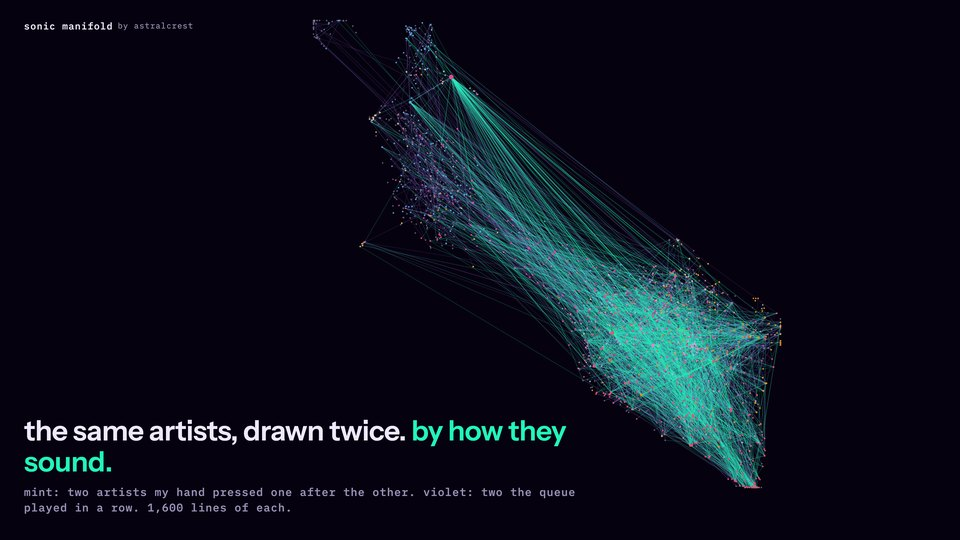
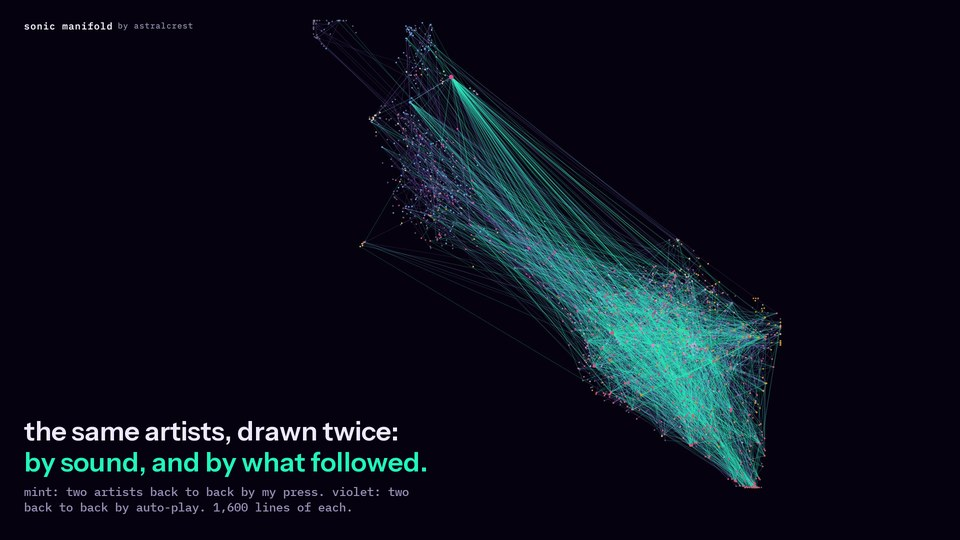
update

Changed region(s): [[0.0312, 0.7704, 0.5938, 0.9481]]

diff --git a/index.html b/index.html
@@ -43,7 +43,7 @@ if(!own[base])location.replace('lab.html'+h);
 <link rel="preload" as="fetch" crossorigin href="front/data/field.json?v=24ef332630">
 <link rel="preconnect" href="https://fonts.googleapis.com">
 <link rel="preconnect" href="https://fonts.gstatic.com" crossorigin>
-<link rel="preload" as="script" href="front/field.js?v=59caa97389">
+<link rel="preload" as="script" href="front/field.js?v=b207cf9dcc">
 <link rel="stylesheet" href="https://fonts.googleapis.com/css2?family=Instrument+Sans:wght@400;500;600&family=IBM+Plex+Mono:wght@400;500&display=swap" media="print" onload="this.media='all'"><noscript><link rel="stylesheet" href="https://fonts.googleapis.com/css2?family=Instrument+Sans:wght@400;500;600&family=IBM+Plex+Mono:wght@400;500&display=swap"></noscript>
 <style>
 :root{--bg:#06010f;--panel:#0d0719;--card:#120a22;--ink:#efe9ff;--dim:#9a90b8;--mute:#9a90b8;--line:#2a2140;--faint:rgba(239,233,255,.12);--hair:rgba(239,233,255,.3);--mint:#21f6bc;--amber:#f5a623;--violet:#8b6fd6;--rose:#ff5c7a;--ice:#bcd3ff;--gold:#ffd36b;--sans:"Instrument Sans",-apple-system,"Inter",system-ui,sans-serif;--mono:"IBM Plex Mono",ui-monospace,"SF Mono",Menlo,monospace;--col:clamp(380px,34vw,560px);--top:60svh}
@@ -83,7 +83,7 @@ html.sm-open #hint,html.sm-open .dots,html.sm-open #b-deep,html.sm-open #b-conta
 .wrow .or{display:none}
 .wrow a.wk.go::before{content:"\25B8";color:var(--mint);margin-right:6px}
 .wr-t b{margin-right:10px}
-@media (min-width:900px){#a-open{justify-content:center}.plate.op{position:relative;bottom:auto;width:min(600px,54vw);padding:26px 30px 22px}.plate.op h1{font-size:clamp(34px,4.4vw,62px)}.dots a.on span{display:block;color:var(--ink)}}
+@media (min-width:900px){#stage{z-index:auto}#a-open{justify-content:center}.plate.op{position:relative;bottom:auto;width:min(600px,54vw);padding:26px 30px 22px}.plate.op h1{font-size:clamp(34px,4.4vw,62px)}.dots a.on span{display:block;color:var(--ink)}}
 @media (max-width:899px){html .wrow{flex-wrap:wrap;overflow:visible}.plate.op{padding-top:22px}.plate.op h1{font-size:clamp(30px,9vw,38px)}.plate.op .op-l{font-size:13.5px}
 html #np{position:fixed;left:max(8px,env(safe-area-inset-left));right:max(8px,env(safe-area-inset-right));top:calc(var(--top) - 50px);bottom:auto;z-index:8;margin:0;padding:0 4px 0 12px;border:1px solid var(--line);border-radius:999px;background:rgba(6,1,15,.92);display:flex;align-items:center;gap:6px;min-height:40px;touch-action:pan-y;box-shadow:0 2px 14px rgba(0,0,0,.4)}
 html #np[hidden]{display:none}html body #np-k,html body #np-h,html body #np-x,html body #np .fine,html body #np #a-sp{display:none}
@@ -538,7 +538,7 @@ cv.addEventListener('wheel',function(e){if(e.ctrlKey||e.metaKey)aside();},{passi
 })();
 </script>
 <script>(function(){var ST={"taste":"5b22ea6a68","genre":"d8225fac12","nodes":"f62c9d46f9","pairs":"65271eccdc","graveyard":"f866beb3af","tracks":"9f65301c74","hear":"32c1ba0b88","sky":"ce556d8763","years":"122de0cd9e","radio":"c81287ac4c","pv":"381d21eeee","field":"24ef332630","maps":"8fc6260095","ring":"5c3aa07b40","ghost":"eccb19b1ac","gloss":"da3f4523b1"};window.__ledger={V:ST,READY:{}};window.__front={stamps:ST,field:true};})();</script>
-<script src="front/field.js?v=59caa97389" defer></script>
+<script src="front/field.js?v=b207cf9dcc" defer></script>
 <script src="front/music.js?v=57fbd03cb0" defer></script>
 <div id="cpop" hidden aria-label="contact"><div class="cp"><small>contact</small><b>astralcrestlab@proton.me</b><div class="row"><button type="button" class="chip" id="cp-copy">copy the address</button><a class="chip" href="mailto:astralcrestlab@proton.me">open mail</a></div><p>pgp fingerprint <code>3EAD CE97 F8CE C3BF 8E5B D727 B7F4 EEAB 1BB1 6E67</code> &middot; <a href="researcher.html">the key, on the report page</a></p><button type="button" class="chip x" id="cp-x">close</button></div></div>
 <div id="wallroom" hidden aria-label="a wall, playing inside the manifold"><div class="wr-rail"><button type="button" class="chip" id="wr-prev" aria-label="previous wall">&lsaquo;</button><p class="wr-t"><b id="wr-n"></b><span id="wr-name"></span><i id="wr-done" hidden>done</i></p><button type="button" class="chip" id="wr-next" aria-label="next wall">&rsaquo;</button><button type="button" class="chip x" id="wr-x">close</button></div><iframe id="wr-f" title="the wall" allow="autoplay; microphone; accelerometer; gyroscope; magnetometer" referrerpolicy="same-origin"></iframe></div>

diff --git a/story.html b/story.html
@@ -65,7 +65,7 @@ main{position:relative;z-index:2}
 #act-count{min-height:170vh}#act-met{min-height:280vh}#act-record{min-height:120vh}
 .copy{position:sticky;top:0;min-height:100vh;display:flex;flex-direction:column;justify-content:flex-end;padding:72px max(16px,env(safe-area-inset-right)) calc(28px + env(safe-area-inset-bottom)) max(16px,env(safe-area-inset-left));max-width:100%;pointer-events:none;background:linear-gradient(180deg,rgba(6,1,15,0) 0,rgba(6,1,15,0) 40%,var(--bg) 50%)}
 @media (max-width:899px){html.sm-dock .copy{padding-bottom:calc(80px + env(safe-area-inset-bottom))}}
-@media (max-width:899px){#act-record .copy{padding-top:53vh}}
+@media (max-width:899px){#act-record .copy{padding-top:53vh;justify-content:flex-start;min-height:0;background:linear-gradient(180deg,rgba(6,1,15,0) 0,rgba(6,1,15,0) calc(53vh - 48px),var(--bg) 53vh)}}
 @media (min-width:900px){.copy{justify-content:center;width:min(44vw,640px);padding:72px 110px 72px 28px;background:linear-gradient(90deg,var(--bg) 0,var(--bg) 82%,rgba(6,1,15,0) 100%)}}
 .copy>*{pointer-events:auto}
 .copy .k{font:11px/1 var(--mono);letter-spacing:.06em;text-transform:none;color:var(--dim);margin:0 0 10px}
@@ -144,7 +144,7 @@ html.in-met #when{opacity:1}
 <header class="top" id="top">
   <a class="brand" href="./">sonic manifold <small>by astralcrest</small></a>
   <nav class="dots" aria-label="the five acts"><a href="#act-count" aria-label="the count"><i></i><span>the count</span></a><a href="#act-shape" aria-label="the shape"><i></i><span>the shape</span></a><a href="#act-met" aria-label="who introduced us"><i></i><span>who introduced us</span></a><a href="#act-body" aria-label="the body"><i></i><span>the body</span></a><a href="#act-record" aria-label="the record"><i></i><span>the record</span></a></nav>
-  <a class="chip" href="#links">rooms</a>
+  <a class="chip" href="#links">doors</a>
   <button type="button" class="chip" id="b-deep" aria-pressed="false">deep<span class="xw">&nbsp;science</span></button>
 </header>
 <div id="when" aria-live="off"><small>we met in</small><span id="ym">september 2019</span></div>
@@ -291,7 +291,7 @@ function sync(){var o=on();b.textContent=o?'sound on':'sound off, tap to hear';b
 var pre=false;['pointerdown','touchstart'].forEach(function(e){b.addEventListener(e,function(){pre=on()},true)});
 b.addEventListener('click',function(){var A=au();if(pre){A.forEach(function(a){try{a.pause()}catch(e){}});try{localStorage.setItem('sm.sound','off')}catch(e){}}else{A.forEach(function(a){a.muted=false});try{localStorage.setItem('sm.sound','on')}catch(e){}if(!A.some(function(a){return !a.paused})){var p=document.getElementById('b-play');if(p)p.click()}}pre=on();setTimeout(sync,60)});
 ['play','pause','volumechange','ended'].forEach(function(e){document.addEventListener(e,sync,true)});setInterval(sync,700);sync()})()</script>
-<script src="front/spine.js?v=fe22d25c6e" defer></script>
+<script src="front/spine.js?v=963ebc142b" defer></script>
 <script src="front/music.js?v=d07aa37842" defer></script>
 </body>
 </html>

diff --git a/front/spine.js b/front/spine.js
@@ -108,7 +108,7 @@ function draw(now) {
   targetsFor(act, t, G, body);
   if (blend > 0) { for (var i = 0; i < NP; i++) { var p = P[i]; TX[i] = p.tx; TY[i] = p.ty; AL[i] = p.al; SZ[i] = p.s; KK[i] = p.k; } targetsFor(nextAct, t, G, body); for (i = 0; i < NP; i++) { p = P[i]; p.tx = TX[i] + (p.tx - TX[i]) * blend; p.ty = TY[i] + (p.ty - TY[i]) * blend; p.al = AL[i] + (p.al - AL[i]) * blend; p.s = SZ[i] + (p.s - SZ[i]) * blend; if (blend < 0.5) p.k = KK[i]; } }
   g.globalCompositeOperation = 'source-over'; g.fillStyle = '#06010f'; g.fillRect(0, 0, W, H);
-  var fade = act === 3 ? 1 - blend : act === 2 && nextAct === 3 ? blend : 0;
+  var fade = act === 3 ? 1 - blend : act === 2 && nextAct === 3 ? Math.max(0, (blend - 0.6) / 0.4) : 0;
   /* the river's envelope */
   if (act === 0 && view === 'river' && blend < 1) { var cw0 = (G.rx - G.lx) / NM, span0 = G.bot - G.top; [['v'], ['s'], ['t']].forEach(function (arm) { var c = COL[arm[0]]; g.fillStyle = 'rgba(' + c[0] + ',' + c[1] + ',' + c[2] + ',' + (0.16 * (1 - blend)) + ')'; g.beginPath(); var top = [], bot = []; for (var m = 0; m < NM; m++) { var hgt = tot[m] / maxT * span0, base = G.top + (span0 - hgt) * 0.5, tt = tot[m] || 1, ft = T[m] / tt, fs = SH[m] / tt, y0 = arm[0] === 't' ? base : arm[0] === 's' ? base + hgt * ft : base + hgt * (ft + fs), y1 = arm[0] === 't' ? base + hgt * ft : arm[0] === 's' ? base + hgt * (ft + fs) : base + hgt; top.push([G.lx + cw0 * (m + .5), y0]); bot.push([G.lx + cw0 * (m + .5), y1]); } top.forEach(function (pt, i) { if (i === 0) g.moveTo(pt[0], pt[1]); else g.lineTo(pt[0], pt[1]); }); for (var j = bot.length - 1; j >= 0; j--) g.lineTo(bot[j][0], bot[j][1]); g.closePath(); g.fill(); }); }
   /* the null bands of the body */

diff --git a/front/template.html b/front/template.html
@@ -83,7 +83,7 @@ html.sm-open #hint,html.sm-open .dots,html.sm-open #b-deep,html.sm-open #b-conta
 .wrow .or{display:none}
 .wrow a.wk.go::before{content:"\25B8";color:var(--mint);margin-right:6px}
 .wr-t b{margin-right:10px}
-@media (min-width:900px){#a-open{justify-content:center}.plate.op{position:relative;bottom:auto;width:min(600px,54vw);padding:26px 30px 22px}.plate.op h1{font-size:clamp(34px,4.4vw,62px)}.dots a.on span{display:block;color:var(--ink)}}
+@media (min-width:900px){#stage{z-index:auto}#a-open{justify-content:center}.plate.op{position:relative;bottom:auto;width:min(600px,54vw);padding:26px 30px 22px}.plate.op h1{font-size:clamp(34px,4.4vw,62px)}.dots a.on span{display:block;color:var(--ink)}}
 @media (max-width:899px){html .wrow{flex-wrap:wrap;overflow:visible}.plate.op{padding-top:22px}.plate.op h1{font-size:clamp(30px,9vw,38px)}.plate.op .op-l{font-size:13.5px}
 html #np{position:fixed;left:max(8px,env(safe-area-inset-left));right:max(8px,env(safe-area-inset-right));top:calc(var(--top) - 50px);bottom:auto;z-index:8;margin:0;padding:0 4px 0 12px;border:1px solid var(--line);border-radius:999px;background:rgba(6,1,15,.92);display:flex;align-items:center;gap:6px;min-height:40px;touch-action:pan-y;box-shadow:0 2px 14px rgba(0,0,0,.4)}
 html #np[hidden]{display:none}html body #np-k,html body #np-h,html body #np-x,html body #np .fine,html body #np #a-sp{display:none}

diff --git a/front/field.js b/front/field.js
@@ -869,9 +869,11 @@ function pips(g) {
       else {
         /* the newest months: my share was not re-judged (faint), then shuffle 1.5, then auto-play 75, so auto-play row holds 75 points */
         var h = rows[k][1], me = k === 1 ? 100 - Math.round(h[1]) - h[2] : h[0];
-        col = i < me ? (k === 1 ? dim(ICE, .25) : MINT) : i < me + Math.round(h[1]) ? AMBER : i < me + Math.round(h[1]) + h[2] ? VIOLET : dim(ICE, .25);
+        var sh = Math.round(h[1]), half = (h[1] % 1 !== 0) && i === me + sh - 1;
+        col = i < me ? (k === 1 ? null : MINT) : i < me + sh ? (half ? dim(AMBER, .5) : AMBER) : i < me + sh + h[2] ? VIOLET : dim(ICE, .25);
       }
-      dot(g, x, yy, r, col);
+      if (col === null) { g.beginPath(); g.arc(x, yy, Math.max(1, r - .7), 0, 6.2832); g.strokeStyle = MINT; g.lineWidth = 1; g.stroke(); }
+      else dot(g, x, yy, r, col);
     }
     wbox(x0, y, x0 + cols * cell, y + bh);
     g.textBaseline = 'top'; g.fillStyle = MUTE;

diff --git a/sw.js b/sw.js
@@ -8,7 +8,7 @@
    (the per-day records, the full roster, the tracks) are never named here. the round-5 pass-2 stops and angles (rooms/bail,
    loop, arrivals, wheel, fade, gates, map.ghost .js; data/bail, loops, arrivals, wheel_agg, whopressed2, bi_conditions, gates,
    ghost .json) are cached on first use by the .js/.json stale-while-revalidate rule below, under the new VERSION */
-var VERSION = 'sm-v117';
+var VERSION = 'sm-v118';
 /* show-night walls: small pages, scripts and data warmed at install. pv.json (353 KB) and all audio stay out: first tap only. */
 var WALLS = ['/editions/loop/', '/editions/loop/index.html', '/editions/loop/loop.js', '/editions/loop/data/loop.json', '/editions/loop/data/fit.json',
   '/editions/two/', '/editions/two/index.html', '/editions/two/two.js', '/editions/two/data/samples.json', '/editions/two/data/qr.svg',
